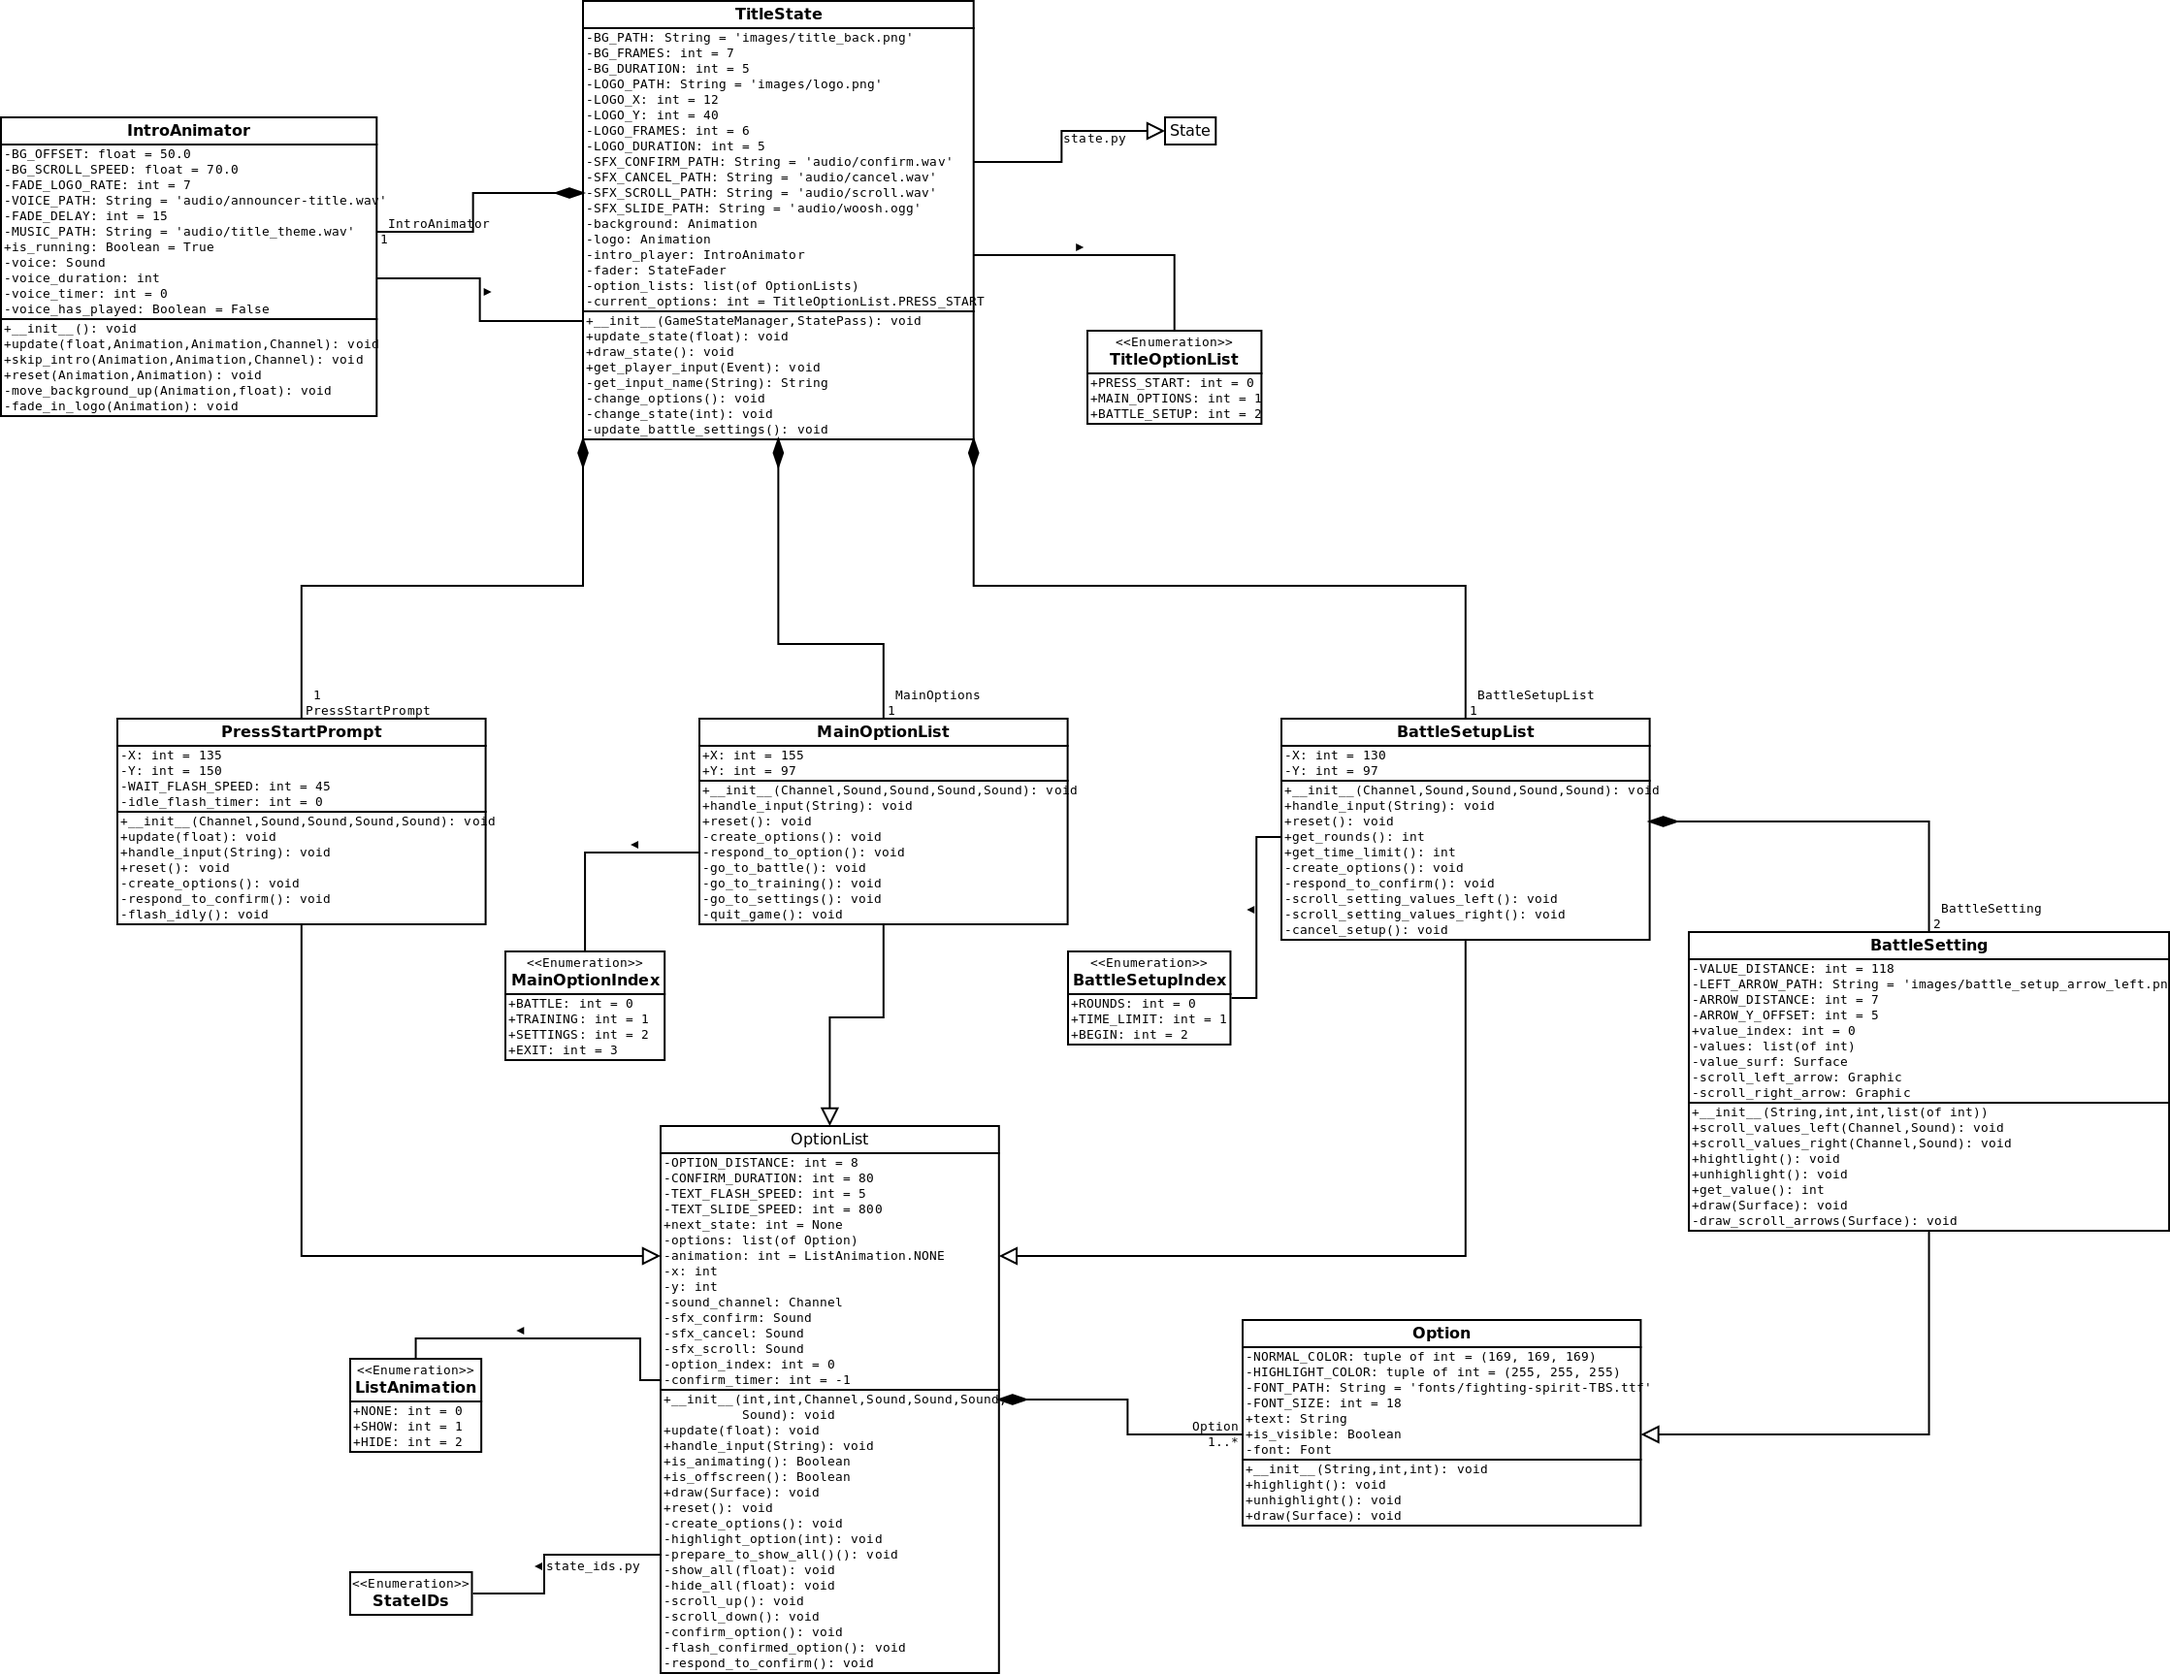
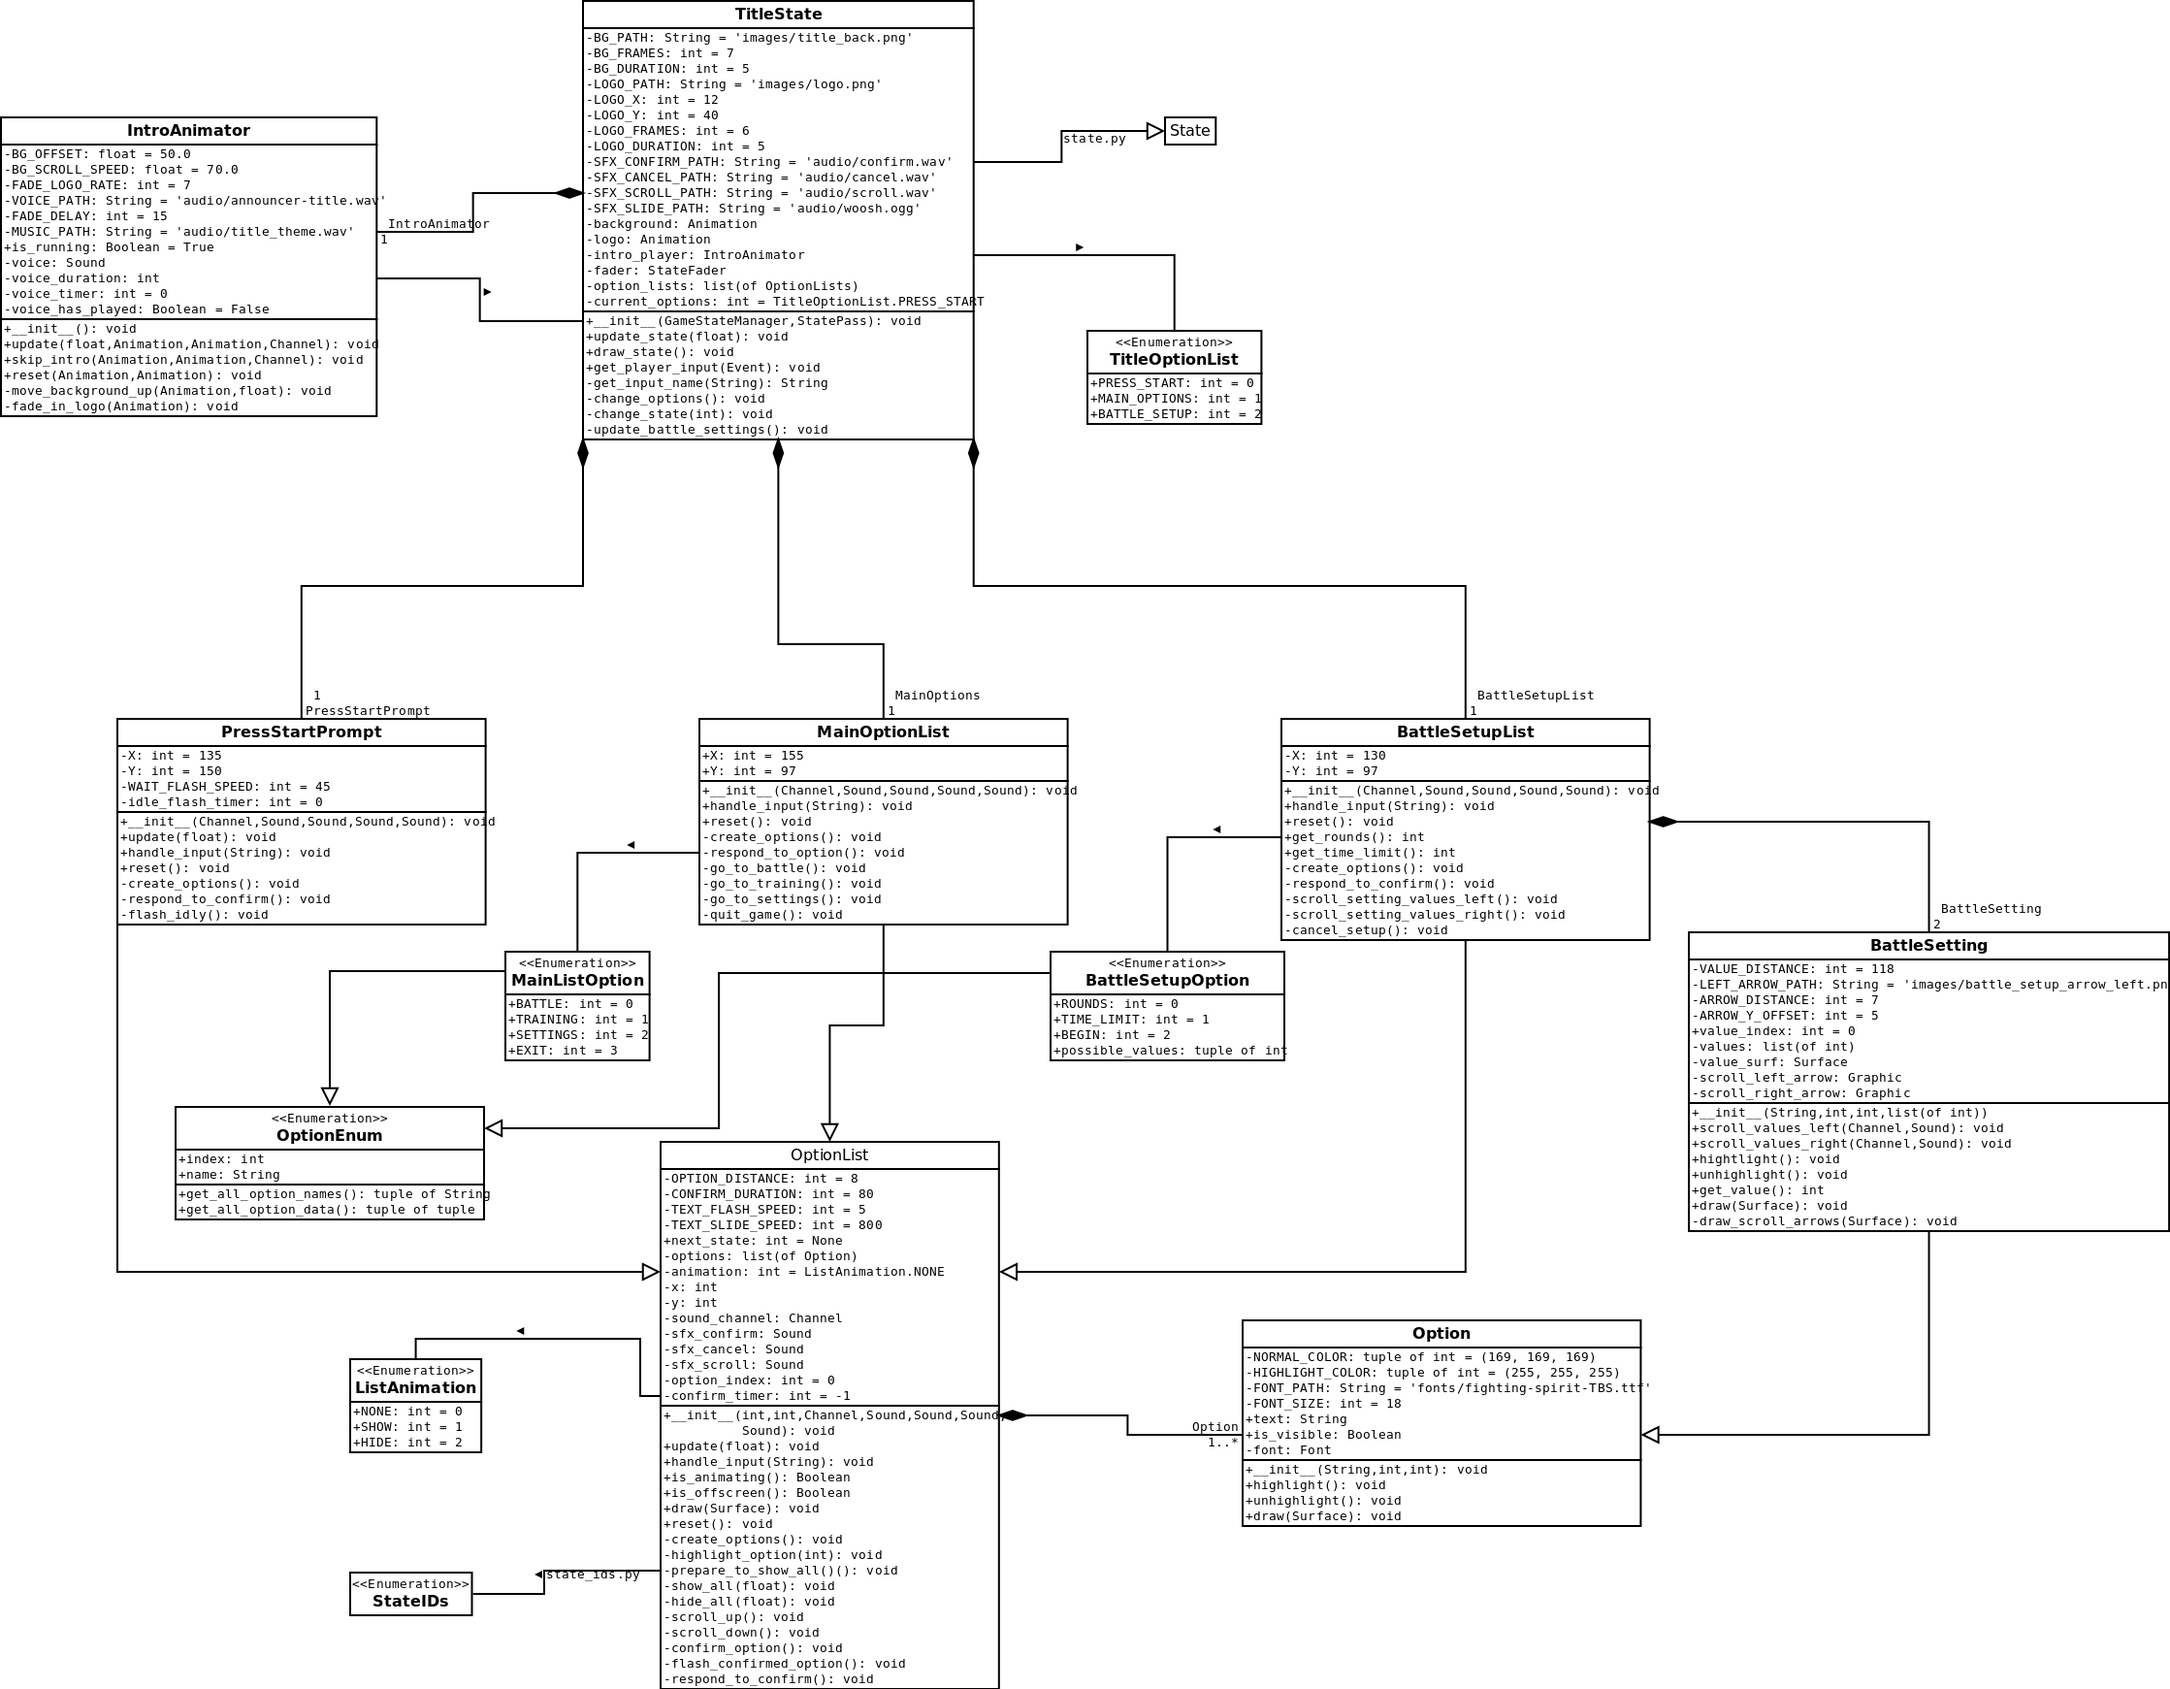
Extract specific Option names/values into Enums
This will allow the names of Options as well as the possible values
for the BattleSettings to be easily edited in one place separate from
the hard code. New Options and values can also be added without much
hassle now.

diff --git a/lib/game_states/title_state.py b/lib/game_states/title_state.py
@@ -1,6 +1,6 @@
 import sys
 from __builtin__ import range
-from enum import IntEnum
+from enum import Enum, IntEnum
 import pygame
 from pygame.locals import *
 from pygame.mixer import Sound
@@ -802,7 +802,7 @@ class MainOptionList(OptionList):
 
     def create_options(self):
         """Create all of the Main Options and add them to the list."""
-        names = ['Battle', 'Training', 'Settings', 'Exit']
+        names = MainListOption.get_all_option_names()
         y = self.y
 
         for i in xrange(0, len(names)):
@@ -831,13 +831,13 @@ class MainOptionList(OptionList):
         """Perform the appropriate operation based on whichever Option
         was just confirmed.
         """
-        if self.option_index == MainOptionIndex.BATTLE:
+        if self.option_index == MainListOption.BATTLE.index:
             self.go_to_battle()
-        elif self.option_index == MainOptionIndex.TRAINING:
+        elif self.option_index == MainListOption.TRAINING.index:
             self.go_to_training()
-        elif self.option_index == MainOptionIndex.SETTINGS:
+        elif self.option_index == MainListOption.SETTINGS.index:
             self.go_to_settings()
-        elif self.option_index == MainOptionIndex.EXIT:
+        elif self.option_index == MainListOption.EXIT.index:
             self.exit_game()
 
     def go_to_battle(self):
@@ -911,15 +911,19 @@ class BattleSetupList(OptionList):
         Option, and add them to the list.
         """
         y = self.y
-        rounds = BattleSetting('Rounds', self.x, y, 1, 3, 5)
+        battle_settings = []
 
-        y += rounds.rect.height + self.OPTION_DISTANCE
-        time_limit = BattleSetting('Time Limit', self.x, y, 30, 60, 99)
+        for setting in BattleSetupOption.get_all_option_data()[:-1]:
+            new_setting = BattleSetting(setting.name, self.x, y,
+                                        *setting.possible_values)
+            y += new_setting.rect.height + self.OPTION_DISTANCE
+            battle_settings.append(new_setting)
 
-        y += time_limit.rect.height + self.OPTION_DISTANCE
-        begin = Option('Begin', self.x, y)
+        confirm_name = BattleSetupOption.get_all_option_data()[-1].name
+        confirm_option = Option(confirm_name, self.x, y)
+        battle_settings.append(confirm_option)
 
-        self.options.extend([rounds, time_limit, begin])
+        self.options.extend(battle_settings)
 
     def handle_input(self, input_name):
         """Respond to input from the players.
@@ -936,7 +940,7 @@ class BattleSetupList(OptionList):
         elif input_name == 'forward':
             self.scroll_setting_values_right()
         elif (input_name == 'start' and
-              self.option_index == BattleSetupIndex.BEGIN):
+              self.option_index == BattleSetupOption.BEGIN.index):
             self.confirm_option()
         elif input_name == 'cancel':
             self.cancel_setup()
@@ -948,11 +952,11 @@ class BattleSetupList(OptionList):
 
     def get_rounds(self):
         """Return the number of rounds in the upcoming battle."""
-        return self.options[BattleSetupIndex.ROUNDS].get_value()
+        return self.options[BattleSetupOption.ROUNDS.index].get_value()
 
     def get_time_limit(self):
         """Return the time limit per round in the upcoming battle."""
-        return self.options[BattleSetupIndex.TIME_LIMIT].get_value()
+        return self.options[BattleSetupOption.TIME_LIMIT.index].get_value()
 
     def scroll_setting_values_left(self):
         """Select the previous value in the currently-selected
@@ -1217,40 +1221,92 @@ class ListAnimation(IntEnum):
     HIDE = 2
 
 
-class MainOptionIndex(IntEnum):
-    """An enumeration for the index of each Option within the list of
-    the Main Title Screen Options.
+class OptionEnum(Enum):
+    """An abstract class defining shared behaviour between the Option
+    Enums.
+
+    Child classes must have tuples as attributes, each with at least two
+    items that represent, in this order:
+        1. The integer index of the Option within its respective list.
+        2. The String name of the Option as it will appear on-screen.
+    An example of a valid attribute would be:
+        battle = (0, 'battle')
+    """
+    @property
+    def index(self):
+        """Return the integer index of this Option within its respective
+        Option List.
+        """
+        return self.value[0]
+
+    @property
+    def name(self):
+        """Return the String name of this Option as it appears on-screen.
+        """
+        return self.value[1]
+
+    @classmethod
+    def get_all_option_names(cls):
+        """Return a tuple containing the names of all Options in this
+        Option List."""
+        names = [option_data.name for option_data in cls.__members__.values()]
+        return tuple(names)
+
+    @classmethod
+    def get_all_option_data(cls):
+        """Return a tuple containing tuples of data for all Options in
+        this Option list.
+        """
+        return tuple(cls.__members__.values())
+
+
+class MainListOption(OptionEnum):
+    """An enumeration for the index and name of each Option within the
+    list of the Main Title Screen Options.
 
     Attributes:
-        BATTLE: An integer for the index of the Option for setting up a
-            new battle.
-        TRAINING: An integer for the index of Option for launching
-            Training Mode.
-        SETTINGS: An integer for the index of Option that will call the
-            Settings Screen.
-        EXIT: An integer for the index of the Option that will close
-            the game.
+        BATTLE: A tuple containing the index and name of the Option for
+            setting up a new battle.
+        TRAINING: A tuple containing the index and name of the Option
+            for launching Training Mode.
+        SETTINGS: A tuple containing the index and name of the Option
+            that will call the Settings Screen.
+        EXIT: A tuple containing the index and name of the Option that
+            will close the game.
     """
-    BATTLE = 0
-    TRAINING = 1
-    SETTINGS = 2
-    EXIT = 3
+    BATTLE = (0, 'Battle')
+    TRAINING = (1, 'Training')
+    SETTINGS = (2, 'Settings')
+    EXIT = (3, 'Exit')
 
 
-class BattleSetupIndex(IntEnum):
-    """An enumeration for the index of each Option within the
-    BattleSetupList.
+class BattleSetupOption(OptionEnum):
+    """An enumeration for the index, name, and possible values of each
+    BattleSetting within the BattleSetupList.
+
+    In each of the tuples that make up an attribute, all items that
+    succeed the BattleSetting's name will be treated as its values.
+    The only exception is the very last attribute, which will always
+    be treated as the 'Confirm Battle' option.
 
     Attributes:
-        ROUNDS: An integer for the index of the BattleSetting that sets
-            the number of rounds for the upcoming battle.
-        TIME_LIMIT: An integer for the index of the BattleSetting that
-            sets the number time limit per round for the upcoming
-            battle.
-        BEGIN: An integer for the index of the Option that will allow
-            the players to confirm battle settings and proceed to the
-            Character Select Screen.
+        ROUNDS: A tuple containing the index, name, and possible values
+            of the BattleSetting that sets the number of rounds for the
+            upcoming battle.
+        TIME_LIMIT: A tuple containing the index, name, and possible
+            values of the BattleSetting that sets the number time limit
+            per round for the upcoming battle.
+        BEGIN: A tuple containing the index, name, and possible values
+            of the Option that will allow the players to confirm battle
+            settings and proceed to the Character Select Screen.
     """
-    ROUNDS = 0
-    TIME_LIMIT = 1
-    BEGIN = 2
+    ROUNDS = (0, 'Rounds', 1, 3, 5)
+    TIME_LIMIT = (1, 'Time Limit', 30, 60, 99)
+    BEGIN = (2, 'Begin')
+
+    @property
+    def possible_values(self):
+        """Return a tuple for the possible values of this
+        BattleSetting."""
+        return self.value[2:]
+
